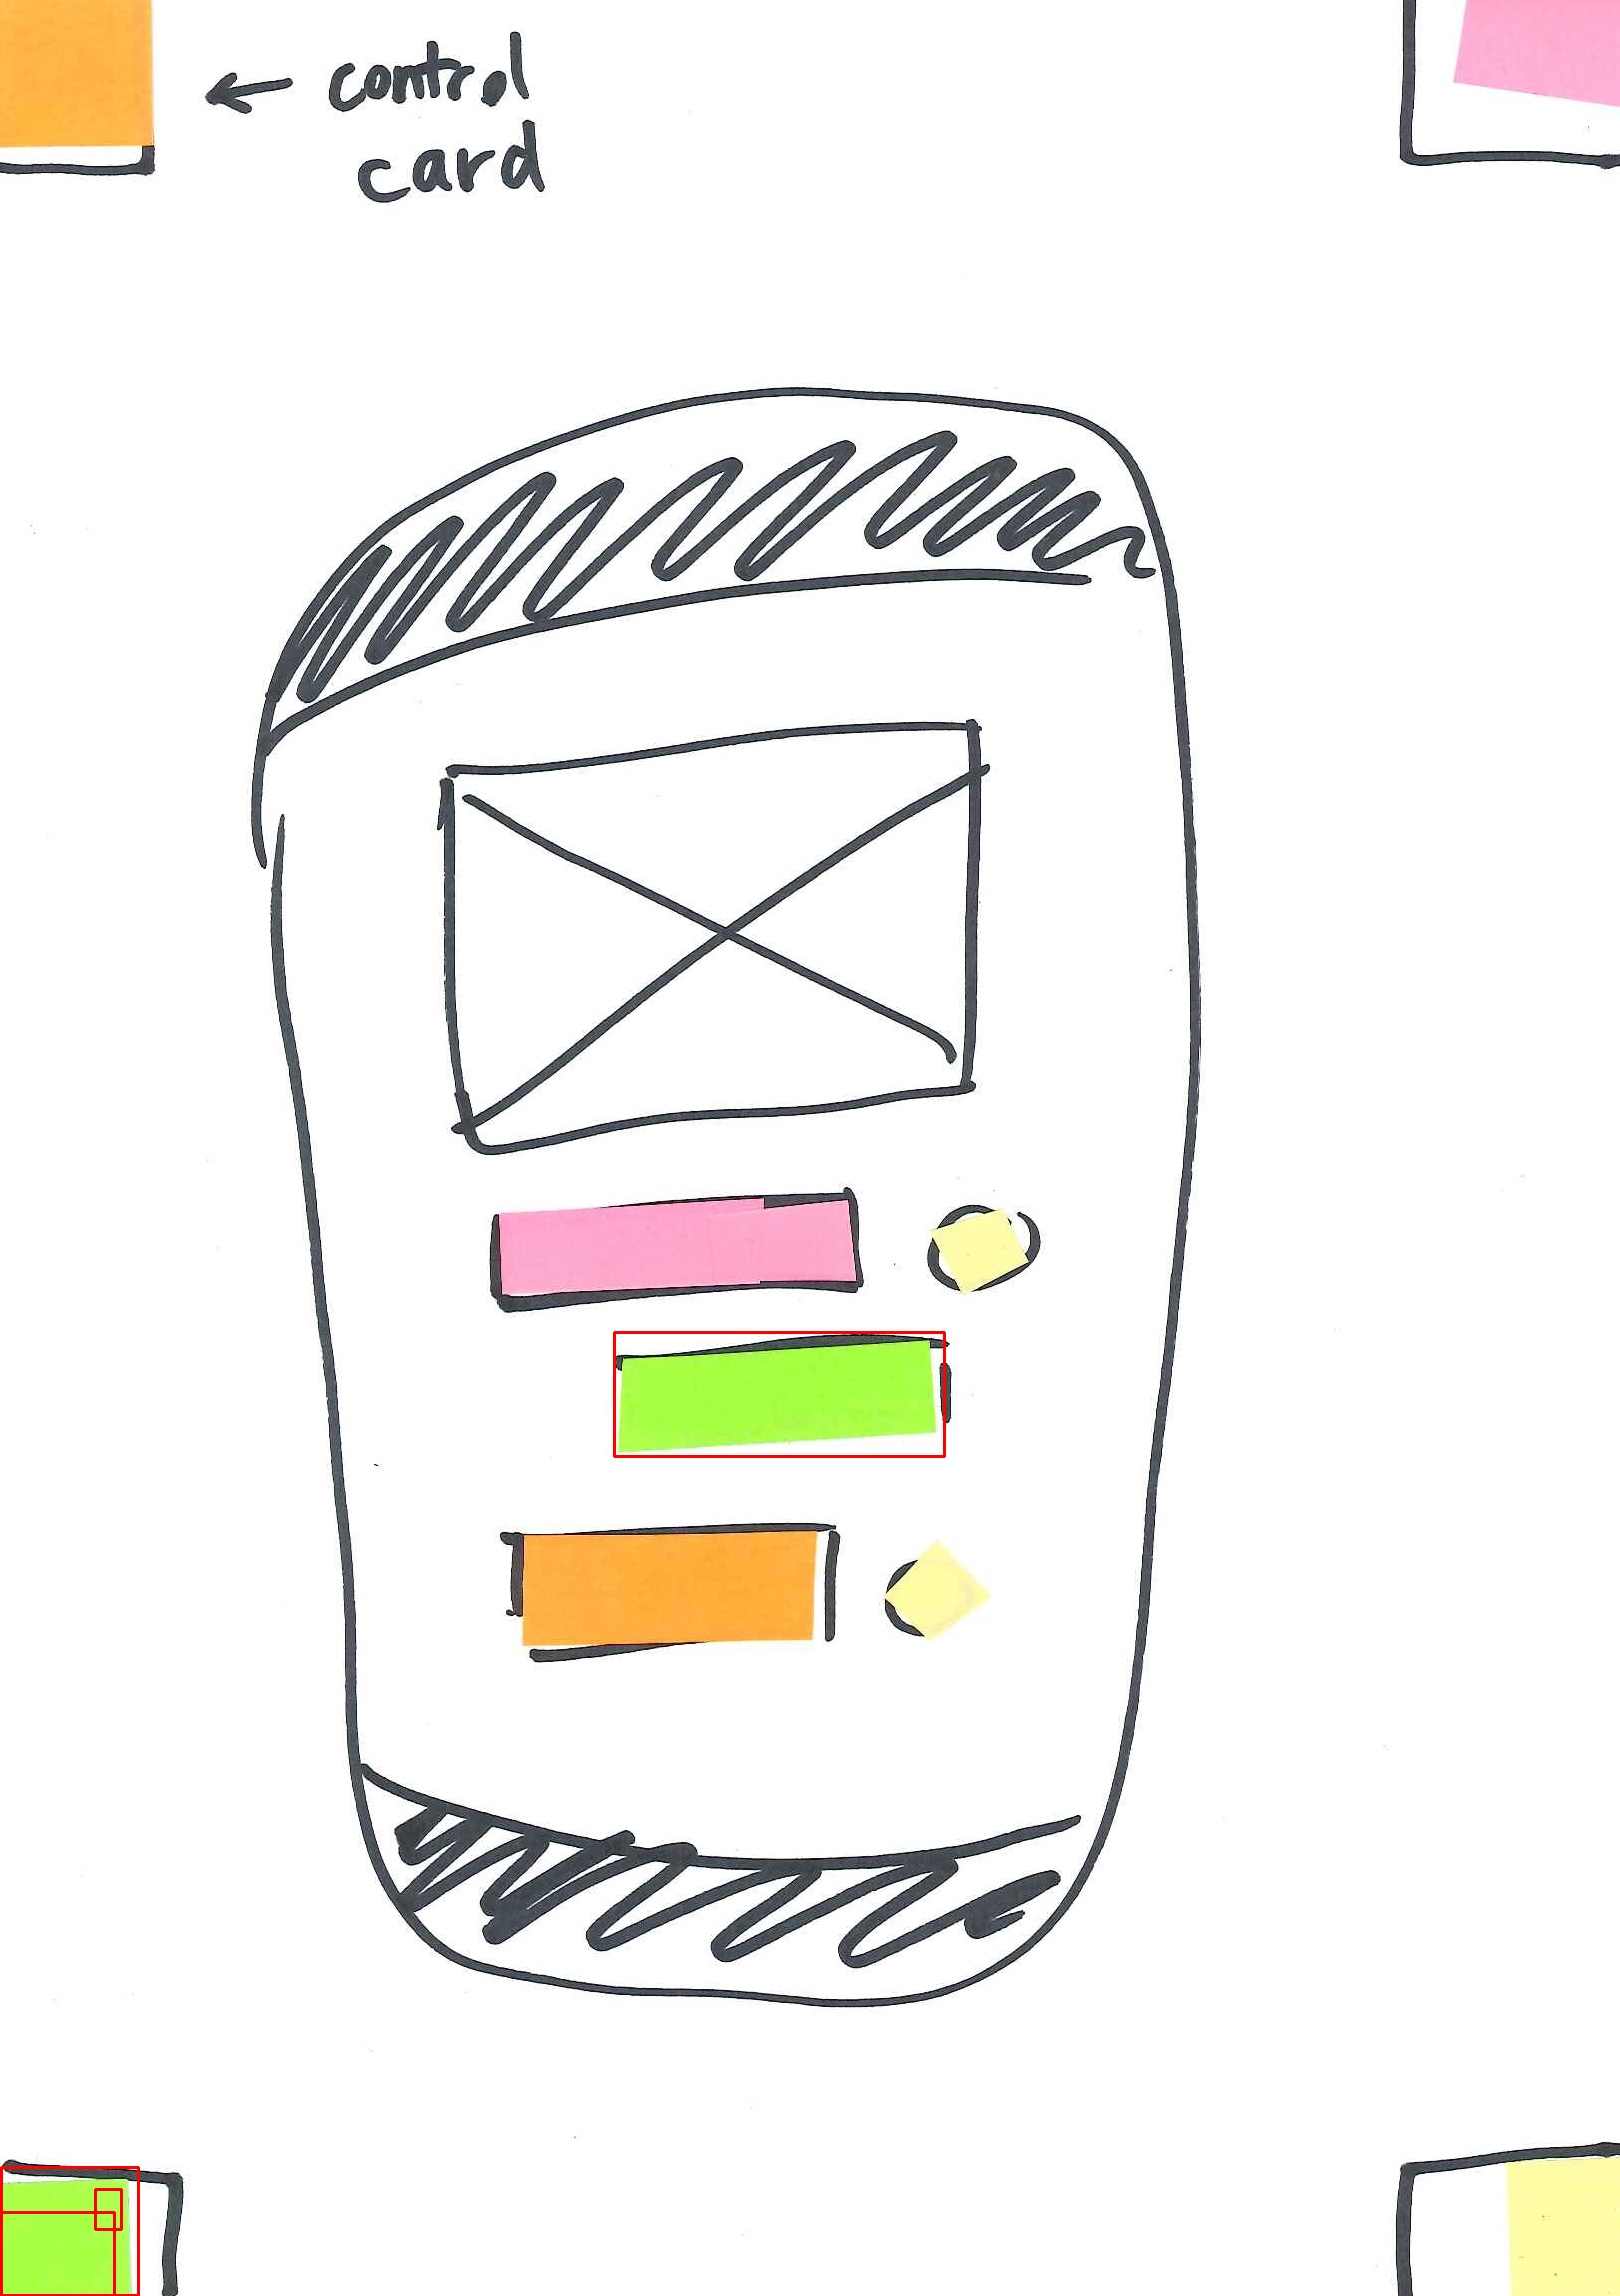
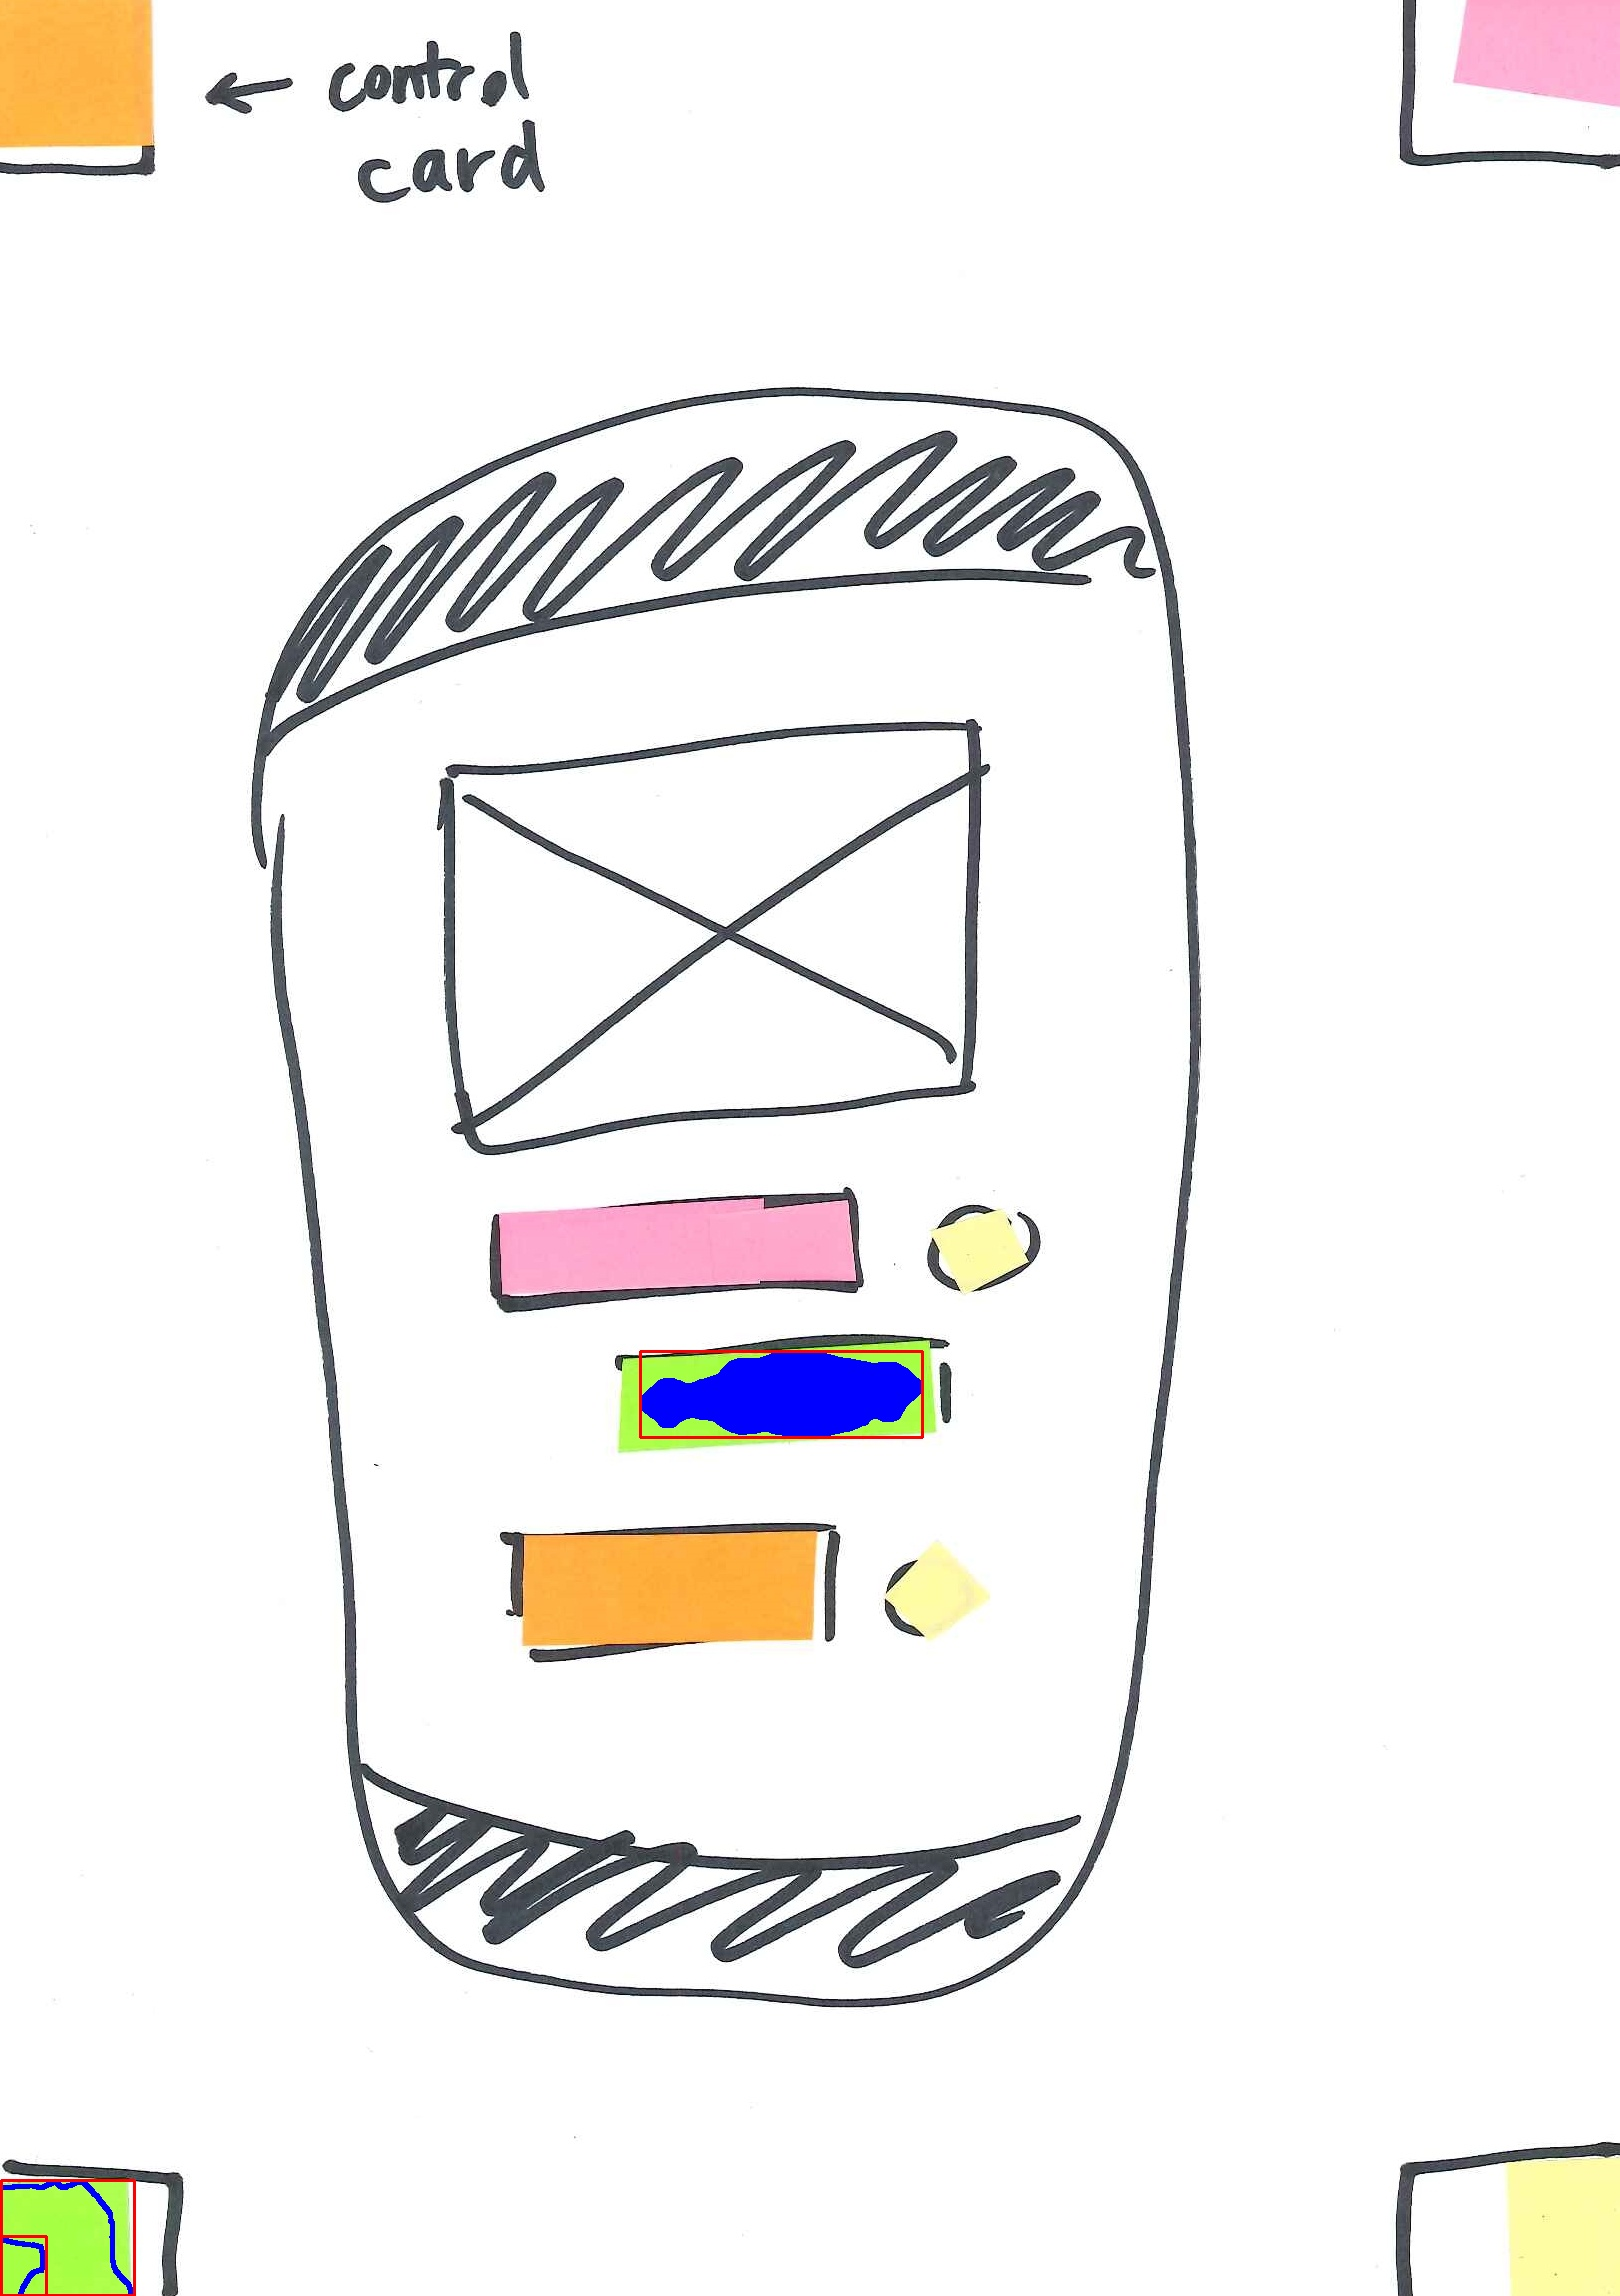
Re-added the dilation + changed "Smooth" to 99 instead of 15...

Changed region(s): [[0.3704, 0.5875, 0.5864, 0.6494], [0.0, 0.9277, 0.0926, 1.0]]

diff --git a/DetectApproxSquare.java b/DetectApproxSquare.java
@@ -76,9 +76,12 @@ public class DetectApproxSquare {
 		// checks the parts of the image in the range of the color chosen
 		cvInRangeS(imgHSV, cvScalar(iLowH, iLowS, iLowV, 0),
 				cvScalar(iHighH, iHighS, iHighV, 0), imgThresh);
-		
+
+		// added a dilation effect
+		cvMorphologyEx(imgThresh, imgThresh, null, null, CV_MOP_DILATE, 1);
+
 		// smooths the image according to the different parameters
-		cvSmooth(imgThresh, imgThresh, CV_MEDIAN, size, 0, 0, 0);
+		cvSmooth(imgThresh, imgThresh, CV_MEDIAN, 99, 0, 0, 0);
 
 		// temporary saves the HSV image (NO IDEA WHY I HAVE TO)
 		cvSaveImage("Temp_HSV.jpg", imgThresh);
@@ -119,7 +122,7 @@ public class DetectApproxSquare {
 		h = (int) (hsv[0] * 180);
 		// s = (int) (hsv[1] * 100);
 		// v = (int) (hsv[2] * 100);
-		
+
 		System.out.println("The H value is: " + h);
 		System.out.println();
 
@@ -183,7 +186,7 @@ public class DetectApproxSquare {
 		// CV_RETR_EXTERNAL retrieves only the extreme outer contours
 		cvFindContours(gry, storage, contours, Loader.sizeof(CvContour.class),
 				CV_RETR_EXTERNAL, CV_CHAIN_APPROX_NONE, new CvPoint());
-		
+
 		// counts the contours
 		int count = 1;
 
@@ -195,11 +198,11 @@ public class DetectApproxSquare {
 		else {
 			// loops around the contours
 			for (cont = contours; cont != null; cont = cont.h_next()) {
-				
+
 				// draws the contours of the identified colored shape
-//				CvScalar color = CvScalar.BLUE;
-//				cvDrawContours(cpy, cont, color, CV_RGB(0, 0, 0), -1,
-//						CV_FILLED, 8, cvPoint(0, 0));
+				CvScalar color = CvScalar.BLUE;
+				cvDrawContours(cpy, cont, color, CV_RGB(0, 0, 0), -1,
+						CV_FILLED, 8, cvPoint(0, 0));
 
 				// creates the bounding rectangle around the contours
 				CvRect sq = cvBoundingRect(cont, 0);
@@ -228,13 +231,10 @@ public class DetectApproxSquare {
 					System.out.println("Rectangle" + count);
 					System.out.println("Coordinates: " + tl + tr + br + bl);
 					System.out.println();
-					
+
 					// draws the rectangle
 					cvRectangle(cpy, tl, br, CV_RGB(255, 0, 0), 2, 8, 0);
-					
 					count++;
-					
-					// increases the contours counter
 				}
 			}
 
